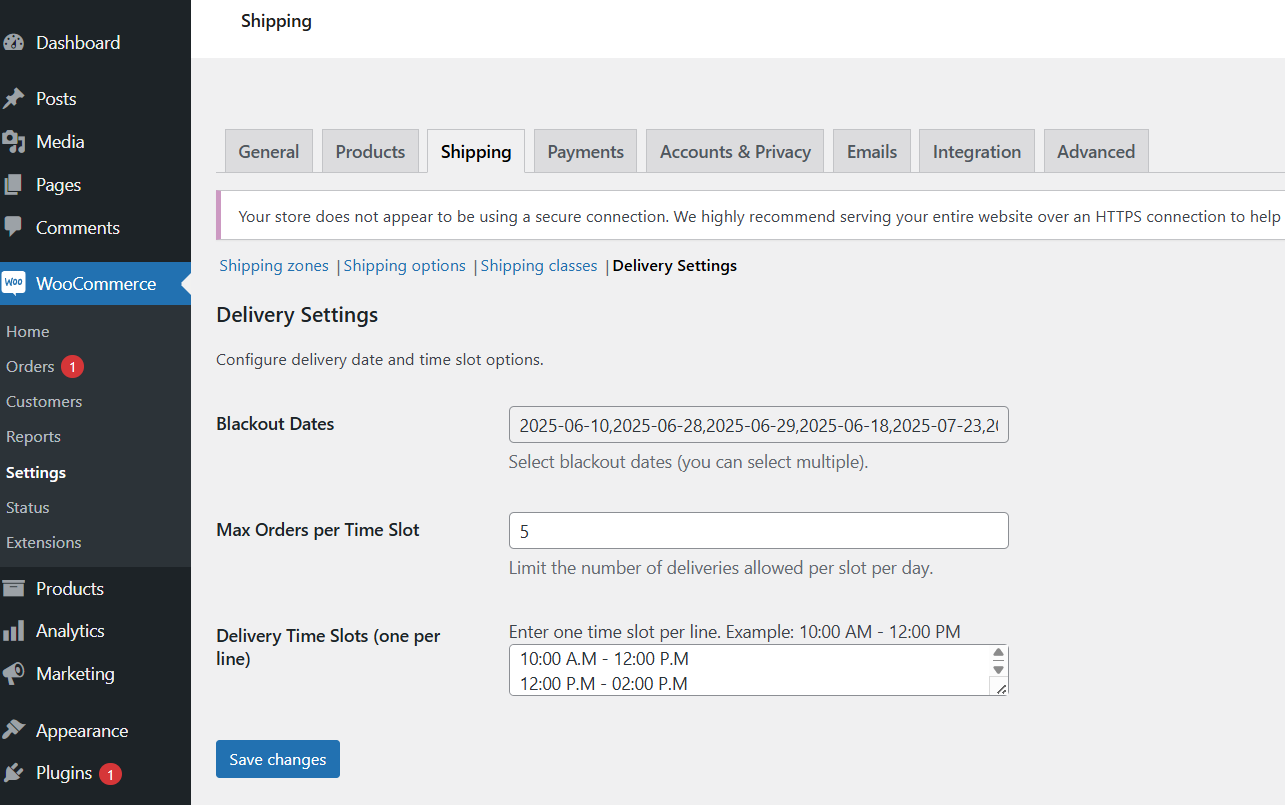
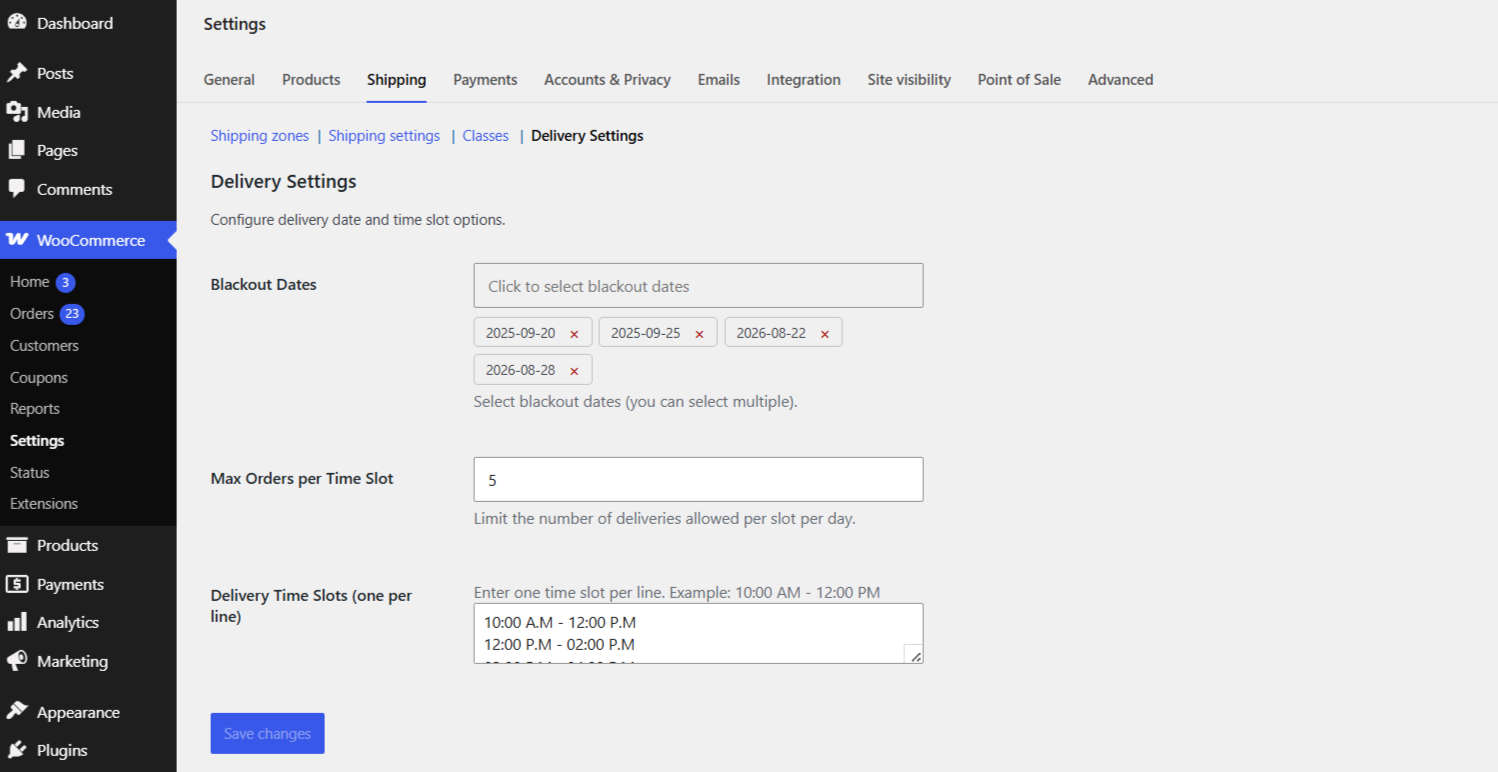
Make some UI changes on Blackupout dates and settings menu for plugin settings

Changed region(s): [[0.0, 0.0, 0.9961, 1.0], [0.4981, 0.4041, 0.5603, 0.4352], [0.5914, 0.6218, 0.6226, 0.6528]]

diff --git a/assets/js/admin-datepicker.js b/assets/js/admin-datepicker.js
@@ -1,8 +1,56 @@
 jQuery(function($) {
-    var input = $('#delidaam_delivery_blackout_dates');
+    var storageInput = $('#delidaam_delivery_blackout_dates');
+    if (!storageInput.length) {
+        return;
+    }
+
     var selectedDates = [];
 
-    input.datepicker({
+    // The WooCommerce-rendered input only holds the saved CSV value now;
+    // it stays hidden so the raw comma list never shows on screen. A
+    // separate blank, read-only trigger takes over its id/label so the
+    // calendar opens from the same spot, and the chip list below is the
+    // only place the selected dates are actually displayed.
+    storageInput
+        .attr('id', 'delidaam_delivery_blackout_dates_storage')
+        .hide();
+
+    var trigger = $('<input type="text" id="delidaam_delivery_blackout_dates" class="delidaam-blackout-dates-trigger" readonly />')
+        .attr('placeholder', delidaamAdminDatepicker.placeholder);
+    storageInput.after(trigger);
+
+    var chipsList = $('<div class="delidaam-blackout-dates-chips"></div>');
+    trigger.after(chipsList);
+
+    function renderChips() {
+        chipsList.empty();
+
+        selectedDates.forEach(function(dateText) {
+            var removeButton = $('<button type="button" class="delidaam-blackout-date-remove"></button>')
+                .attr('aria-label', delidaamAdminDatepicker.removeLabel.replace('%s', dateText))
+                .text('×')
+                .on('click', function() {
+                    removeDate(dateText);
+                });
+
+            var chip = $('<span class="delidaam-blackout-date-chip"></span>')
+                .append($('<span class="delidaam-blackout-date-chip-text"></span>').text(dateText))
+                .append(removeButton);
+
+            chipsList.append(chip);
+        });
+    }
+
+    function removeDate(dateText) {
+        selectedDates = selectedDates.filter(function(d) {
+            return d !== dateText;
+        });
+        storageInput.val(selectedDates.join(','));
+        renderChips();
+        trigger.datepicker('refresh');
+    }
+
+    trigger.datepicker({
         dateFormat: 'yy-mm-dd',
         beforeShowDay: function(date) {
             var string = $.datepicker.formatDate('yy-mm-dd', date);
@@ -11,17 +59,22 @@ jQuery(function($) {
         onSelect: function(dateText) {
             if (!selectedDates.includes(dateText)) {
                 selectedDates.push(dateText);
+                selectedDates.sort();
             } else {
                 selectedDates = selectedDates.filter(function(d) {
                     return d !== dateText;
                 });
             }
-            input.val(selectedDates.join(','));
+            storageInput.val(selectedDates.join(','));
+            renderChips();
         }
     });
 
     // Load existing values (if any)
-    if (input.val()) {
-        selectedDates = input.val().split(',');
+    if (storageInput.val()) {
+        selectedDates = storageInput.val().split(',')
+            .map(function(d) { return d.trim(); })
+            .filter(Boolean);
     }
+    renderChips();
 });

diff --git a/assets/css/admin-datepicker.css b/assets/css/admin-datepicker.css
@@ -1,0 +1,39 @@
+.delidaam-blackout-dates-trigger {
+    cursor: pointer;
+    background-color: #fff;
+}
+
+.delidaam-blackout-dates-chips {
+    display: flex;
+    flex-wrap: wrap;
+    gap: 6px;
+    margin-top: 8px;
+    max-width: 400px;
+}
+
+.delidaam-blackout-date-chip {
+    display: inline-flex;
+    align-items: center;
+    background: #f0f0f1;
+    border: 1px solid #c3c4c7;
+    border-radius: 4px;
+    padding: 2px 4px 2px 10px;
+    font-size: 12px;
+    line-height: 1.8;
+}
+
+.delidaam-blackout-date-remove {
+    background: none;
+    border: none;
+    cursor: pointer;
+    margin-left: 6px;
+    padding: 0 6px;
+    font-size: 15px;
+    line-height: 1;
+    color: #a00;
+}
+
+.delidaam-blackout-date-remove:hover,
+.delidaam-blackout-date-remove:focus {
+    color: #dc3232;
+}

diff --git a/delivery-date-time-slot-picker-for-woocommerce.php b/delivery-date-time-slot-picker-for-woocommerce.php
@@ -3,7 +3,7 @@
  * Plugin Name: Delivery Date & Time Slot Picker for WooCommerce
  * Plugin URI: https://wordpress.org/plugins/delivery-date-time-slot-picker-for-woocommerce
  * Description: Allows customers to select delivery date and time slot at WooCommerce checkout. Supports blackout dates and slot limits.
- * Version: 1.4
+ * Version: 1.5
  * Author: NitsPatel
  * Author URI: https://github.com/NiteshPatel-1988
  * Requires Plugins: woocommerce
@@ -59,4 +59,26 @@ function delidaam_initialize_plugin() {
     }
 }
 add_action('woocommerce_init', 'delidaam_initialize_plugin');
+
+/**
+ * Add a "Settings" link on the Plugins list page, linking straight to
+ * WooCommerce > Settings > Shipping > Delivery Settings.
+ */
+function delidaam_plugin_action_links( $links ) {
+    $settings_url = add_query_arg(
+        [
+            'page'    => 'wc-settings',
+            'tab'     => 'shipping',
+            'section' => 'delidaam_delivery_settings',
+        ],
+        admin_url( 'admin.php' )
+    );
+
+    $settings_link = '<a href="' . esc_url( $settings_url ) . '">' . esc_html__( 'Settings', 'delivery-date-time-slot-picker-for-woocommerce' ) . '</a>';
+
+    array_unshift( $links, $settings_link );
+
+    return $links;
+}
+add_filter( 'plugin_action_links_' . plugin_basename( __FILE__ ), 'delidaam_plugin_action_links' );
 

diff --git a/includes/class-delivery-date-time-picker.php b/includes/class-delivery-date-time-picker.php
@@ -108,10 +108,21 @@ class DELIDAAM_Delivery_Date_Time_Picker {
                 'delidaam-delivery-multidate',
                 plugin_dir_url(__FILE__) . '../assets/js/admin-datepicker.js',
                 ['jquery', 'jquery-ui-datepicker'],
-                '1.0',
+                '1.2',
                 true
             );
+            wp_localize_script( 'delidaam-delivery-multidate', 'delidaamAdminDatepicker', [
+                /* translators: %s: date being removed from the blackout dates list. */
+                'removeLabel' => __( 'Remove %s', 'delivery-date-time-slot-picker-for-woocommerce' ),
+                'placeholder' => __( 'Click to select blackout dates', 'delivery-date-time-slot-picker-for-woocommerce' ),
+            ] );
             wp_enqueue_style('jquery-ui-css', DELIDAAM_DELIVERY_PLUGIN_URL . 'assets/css/jquery-ui.css', [], '1.12.1');
+            wp_enqueue_style(
+                'delidaam-admin-datepicker',
+                plugin_dir_url(__FILE__) . '../assets/css/admin-datepicker.css',
+                [],
+                '1.0'
+            );
         }
     }
 
